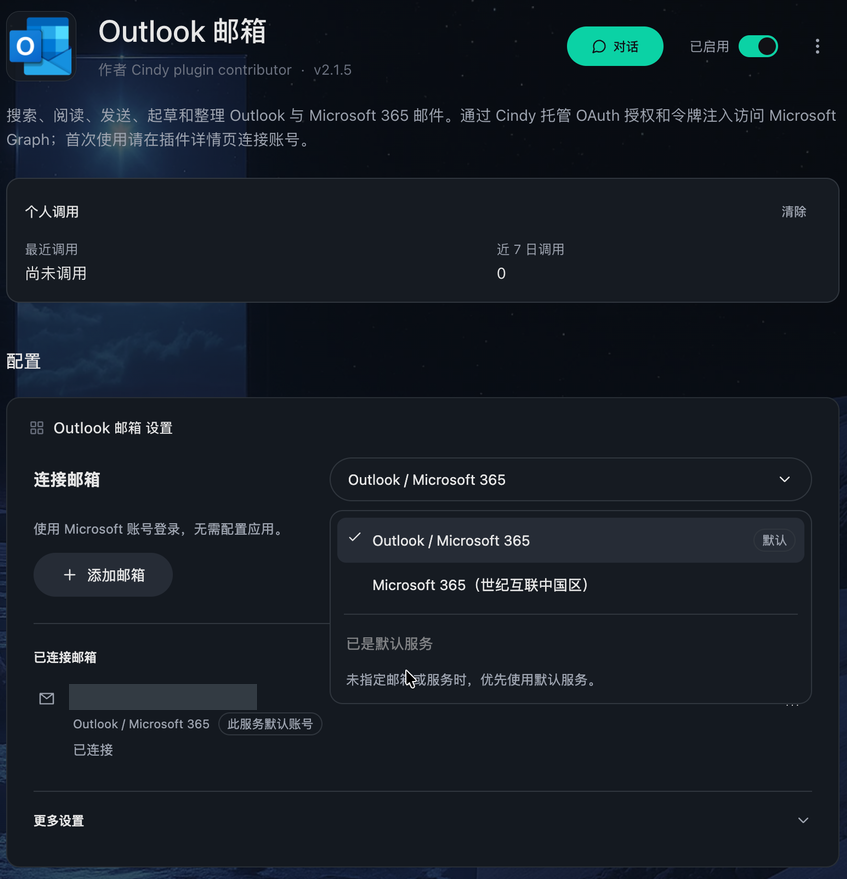
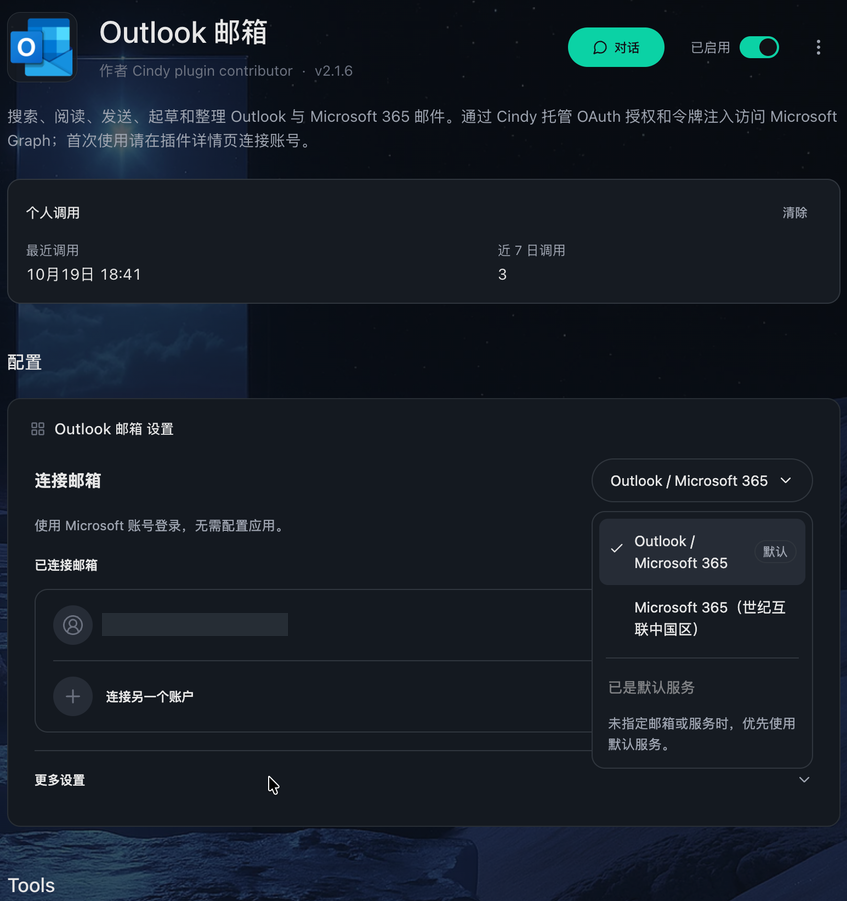
test(outlook-mail): record installed compact settings acceptance

diff --git a/.tests/outlook-mail/ACCEPTANCE.md b/.tests/outlook-mail/ACCEPTANCE.md
@@ -1,3 +1,58 @@
+# Outlook 2.1.6 acceptance — 2026-10-19
+
+Source commit: `52a4e6b0a0ec45f2caeea7b5785906f4a17022dd`.
+Release-format package: `/tmp/outlook-mail-2.1.6.cindy`, 181568 bytes, 30 entries.
[1 lines of base64/hex data omitted]
+Archive settings HTML/CSS/JS and manifest were compared byte-for-byte with source.
+
+## Actual Cindy Beta
+
+Cindy 0.1.111 Beta, macOS. Forge first updated the other installed Outlook copy.
+The existing-account copy still showed 2.1.5, so its own **Update from .cindy file**
+action was used to select the exact release archive above. That detail page now
+shows 2.1.6 with the original connected mailbox and the new account card.
+No uninstall, catalog replacement, credential edit or mailbox mutation occurred.
+
+Verified in the actual dark desktop UI:
+
+- Content-width service selector; global and China switching.
+- China setup heading and explanation on one line at the actual wide card size;
+  required Client ID and callback fields follow the service selection.
+- Circular user avatar, compact account identity, right-side menu, divider and
+  bottom Connect another account row. The Host's orphan leading label separator
+  is removed only from display, never from account identity.
+- Account menu displays service, connected status and service-default marker.
+  Existing account remains visible while viewing China configuration.
+- Returned to the global service. Read-only `outlook_accounts` reports the original
+  global account connected, with China still unconfigured.
+
+Screenshots (mailbox identity redacted, unrelated UI cropped):
+[default](screenshots/outlook-cindy-beta-default.png),
+[service menu](screenshots/outlook-cindy-beta-menu.png),
+[account menu](screenshots/outlook-cindy-beta-accountmenu.png),
+[China setup](screenshots/outlook-cindy-beta-china.png).
+
+## Browser and repository checks
+
+Headed local desktop Chrome: all prior interaction checks and 40 Host-constrained
+layouts passed (280/320/360/460/720 px × four languages × light/dark). New checks
+cover the compact selector, inline wide-card setup explanation, account-card
+footer, hidden healthy-state details, metadata in the account menu, and display
+cleanup of the orphan separator. Long addresses and authorization warnings remain
+visible and wrap without horizontal clipping.
+
+Repository contract/localization/provisioning/publish-workflow and Outlook tests:
+73 passed, 0 failed. Build, bundle syntax, diff whitespace and packaging passed.
+No new dependencies, permissions or credential paths in this refinement.
+
+Limitations: light theme and narrow layouts were validated in desktop Chrome,
+not in the actual Cindy window. New OAuth sign-in, China enterprise authorization
+and destructive account operations were not performed against real accounts.
+The PR stays Draft; the broader full-core-functionality device checkbox remains
+unchecked. The exact 2.1.6 release archive itself **was** installed this time.
+
+---
+
 # Outlook 2.1.5 acceptance — 2026-10-19
 
 Source commit: `964912570f3d9797d6f0fb3c26a1dcfc72d83fef`.
@@ -27,7 +82,7 @@ Verified through actual desktop UI:
 - Actual screenshots were cropped to the plugin detail area and the mailbox
   identity was redacted before being committed.
 
-Actual screenshots:
+Earlier 2.1.5 screenshots (retained at source/evidence commit `4f53ebe`):
 [default](screenshots/outlook-cindy-beta-default.png),
 [service menu](screenshots/outlook-cindy-beta-menu.png).
 
